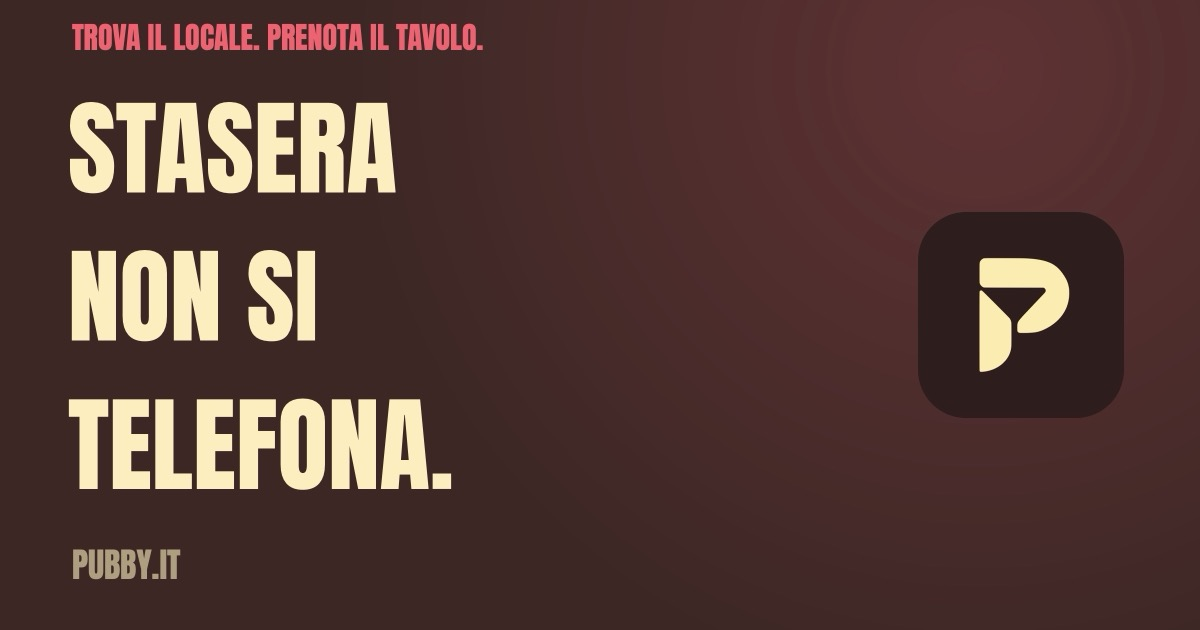
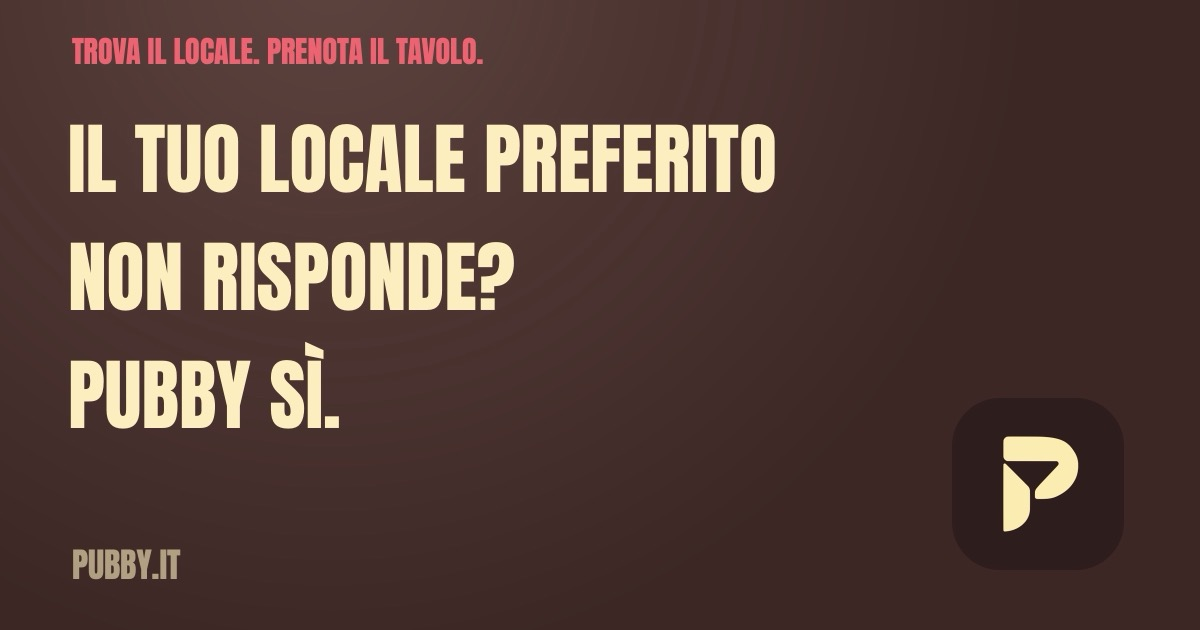
Nuovo hero, testi riscritti, figure allineate alle didascalie
- hero: slogan "Il tuo locale preferito non risponde? Pubby sì.",
  via il bagliore rosso, sfondo sui soli marrone e crema
- immagine e didascalia condividono lo stesso riquadro e nelle sezioni
  a due colonne la schermata si appoggia al margine esterno
- testi rivisti su tutto il sito: periodi completi al posto delle frasi
  spezzate, meno gergo, concordanze sistemate
- immagine Open Graph rifatta con il nuovo slogan

diff --git a/locali.html b/locali.html
@@ -72,7 +72,7 @@
     <div class="wrap hero__inner">
       <p class="eyebrow">Per i locali e i ristoranti</p>
       <h1 class="d1">Le prenotazioni arrivano da sole.</h1>
-      <p class="lead">Tu apri l'app e vedi quanta gente aspetti stasera. Nessuno chiama durante il servizio, nessun DM da recuperare a fine turno.</p>
+      <p class="lead">Apri l'app e vedi quante persone aspetti stasera. Nessuno ti chiama durante il servizio e non ci sono messaggi da recuperare a fine turno.</p>
 
       <div class="stores">
         <a class="btn btn--red" href="#contatti">Porta il tuo locale su Pubby</a>
@@ -85,14 +85,14 @@
   <section class="section section--deep">
     <div class="wrap">
       <div class="head rv">
-        <p class="eyebrow">Oggi</p>
+        <p class="eyebrow">Il problema</p>
         <h2 class="d2">Le prenotazioni le prendi<br>nei momenti sbagliati.</h2>
       </div>
 
       <div class="beats rv">
-        <div class="beat"><p>Il telefono squilla mentre esci due piatti.</p></div>
-        <div class="beat"><p>I messaggi li leggi a mezzanotte, quando il tavolo è <span class="acc">già andato altrove</span>.</p></div>
-        <div class="beat"><p>E l'agenda resta un foglio con i nomi cancellati sopra.</p></div>
+        <div class="beat"><p>Il telefono squilla proprio mentre stai servendo ai tavoli.</p></div>
+        <div class="beat"><p>Leggi i messaggi a mezzanotte, quando quel tavolo è <span class="acc">ormai andato altrove</span>.</p></div>
+        <div class="beat"><p>E l'agenda resta un foglio pieno di nomi cancellati.</p></div>
       </div>
     </div>
   </section>
@@ -104,8 +104,8 @@
         <div class="rv">
           <p class="eyebrow">Il pezzo forte</p>
           <h2 class="d2" style="margin-block:14px 18px">Un link nella bio.<br>Basta quello.</h2>
-          <p class="lead">Ogni locale su Pubby ha un indirizzo pubblico tutto suo. Chi lo apre prenota un tavolo <strong>senza scaricare l'app</strong>: mettilo nella bio di Instagram, in fondo al menù digitale, nella risposta automatica ai messaggi.</p>
-          <p class="lead" style="margin-top:18px">È il modo più corto che esiste per trasformare chi ti segue in coperti.</p>
+          <p class="lead">Ogni locale su Pubby ha un proprio indirizzo pubblico. Chi lo apre può prenotare un tavolo <strong>senza scaricare l'app</strong>: mettilo nella bio di Instagram, in fondo al menù digitale o nella risposta automatica ai messaggi.</p>
+          <p class="lead" style="margin-top:18px">È la strada più breve per trasformare chi ti segue in coperti.</p>
         </div>
 
         <figure class="figure rv">
@@ -126,14 +126,14 @@
       <div class="grid grid--2">
         <div class="rv">
           <p class="eyebrow">La giornata</p>
-          <h2 class="d2" style="margin-block:14px 18px">Quanta gente aspetti stasera.</h2>
-          <p class="lead">La home risponde a una domanda sola. I turni del giorno, i posti già presi su quelli disponibili, e toccando il turno i nomi di chi arriva.</p>
-          <p class="lead" style="margin-top:18px">Per sabato prossimo o per il ponte c'è il calendario: scegli il giorno e vedi come sei messo.</p>
+          <h2 class="d2" style="margin-block:14px 18px">Quante persone aspetti stasera.</h2>
+          <p class="lead">La home risponde a una domanda sola. Mostra i turni del giorno con i posti già prenotati sul totale disponibile e, toccando il turno, i nomi di chi arriva.</p>
+          <p class="lead" style="margin-top:18px">Per sabato prossimo o per il ponte c'è il calendario: scegli il giorno e vedi subito la situazione.</p>
 
           <div class="cards">
             <div class="card">
-              <h3>Gli orari fanno i turni</h3>
-              <p>Imposti gli orari di apertura giorno per giorno e le fasce prenotabili nascono da lì. Un giorno vuoto è un giorno di chiusura.</p>
+              <h3>Gli orari generano i turni</h3>
+              <p>Imposti gli orari di apertura giorno per giorno e da lì nascono le fasce prenotabili. Un giorno lasciato vuoto è un giorno di chiusura.</p>
             </div>
           </div>
         </div>
@@ -164,9 +164,9 @@
       <div class="grid grid--2">
         <div class="rv">
           <p class="eyebrow">Le serate</p>
-          <h2 class="d2" style="margin-block:14px 18px">Sai quanti vengono prima che arrivino.</h2>
-          <p class="lead">Pubblichi la serata e la vedono le persone della zona. Accanto a ogni evento c'è il numero di iscritti: è la stima più onesta che hai per decidere personale, scorte e allestimento.</p>
-          <p class="lead" style="margin-top:18px">Live, dj set, partita, brunch della domenica: le serate ricorrenti si ripubblicano da sole.</p>
+          <h2 class="d2" style="margin-block:14px 18px">Sai quanti sono prima che arrivino.</h2>
+          <p class="lead">Pubblichi la serata e la vedono le persone della zona. Accanto a ogni evento trovi il numero di iscritti: è la stima più attendibile per decidere personale, scorte e allestimento.</p>
+          <p class="lead" style="margin-top:18px">Concerti, dj set, partite, brunch della domenica: le serate che si ripetono vengono ripubblicate in automatico.</p>
         </div>
 
         <figure class="figure rv">
@@ -188,8 +188,8 @@
         <div class="rv">
           <p class="eyebrow">Il team</p>
           <h2 class="d2" style="margin-block:14px 18px">In sala sanno chi arriva.</h2>
-          <p class="lead">Inviti chi lavora con te scrivendo la sua email: gli arriva l'accesso sul suo account e inizia a ricevere le prenotazioni del locale.</p>
-          <p class="lead" style="margin-top:18px">Nessuna password che passa di mano. Se qualcuno cambia mansione o se ne va, lo togli senza toccare gli accessi degli altri.</p>
+          <p class="lead">Inviti chi lavora con te inserendo la sua email: riceve l'accesso sul proprio account e inizia a vedere le prenotazioni del locale.</p>
+          <p class="lead" style="margin-top:18px">Nessuna password da passare di mano. Se qualcuno cambia mansione o lascia il locale, lo rimuovi senza toccare gli accessi degli altri.</p>
         </div>
 
         <figure class="figure rv to-left">
@@ -209,24 +209,24 @@
     <div class="wrap">
       <div class="head rv">
         <p class="eyebrow">Come si parte</p>
-        <h2 class="d2">Tre passaggi, e sei dentro.</h2>
+        <h2 class="d2">Tre passaggi e sei dentro.</h2>
       </div>
 
       <div class="steps rv">
         <div class="step">
           <div class="step__n">01</div>
           <h3>Ci scrivi</h3>
-          <p>Una mail o un messaggio. Ci diciamo che tipo di locale sei e cosa ti serve davvero.</p>
+          <p>Una mail o un messaggio: ci racconti che tipo di locale hai e di che cosa hai bisogno.</p>
         </div>
         <div class="step">
           <div class="step__n">02</div>
           <h3>Prepariamo la scheda</h3>
-          <p>Foto, descrizione, categoria e orari di apertura. Da quelli nascono i turni prenotabili.</p>
+          <p>Foto, descrizione, categoria e orari di apertura: da questi nascono i turni prenotabili.</p>
         </div>
         <div class="step">
           <div class="step__n">03</div>
           <h3>Ricevi l'invito</h3>
-          <p>Ti arriva una mail, imposti la password ed entri. Da quel momento le prenotazioni sono tue.</p>
+          <p>Ti arriva una mail, imposti la password ed entri. Da quel momento le prenotazioni arrivano a te.</p>
         </div>
       </div>
     </div>
@@ -238,7 +238,7 @@
       <div class="head rv">
         <p class="eyebrow">Parliamone</p>
         <h2 class="d2">Dicci che locale hai.</h2>
-        <p class="lead" style="margin-top:18px">Ti rispondiamo noi, non un modulo. Se preferisci, scrivici direttamente su Instagram.</p>
+        <p class="lead" style="margin-top:18px">Ti risponde una persona, non un modulo. Se preferisci, scrivici direttamente su Instagram.</p>
       </div>
 
       <!-- Niente form: non c'è un backend. I contatti sono link diretti, così
@@ -266,7 +266,7 @@
       <div>
         <p class="eyebrow">Dall'altra parte</p>
         <h2 class="d3" style="margin-block:12px 12px">Qualcuno stasera<br>sta cercando te.</h2>
-        <p class="lead">Guarda com'è Pubby per chi esce la sera.</p>
+        <p class="lead">Guarda com'è fatto Pubby per chi esce la sera.</p>
       </div>
       <a class="btn btn--dark" href="index.html">Vai alla pagina per gli utenti →</a>
     </div>

diff --git a/index.html b/index.html
@@ -18,7 +18,7 @@
 <meta property="og:image" content="https://www.pubby.it/assets/og/pubby-og.jpg">
 <meta property="og:image:width" content="1200">
 <meta property="og:image:height" content="630">
-<meta property="og:image:alt" content="Pubby — il posto per stasera">
+<meta property="og:image:alt" content="Il tuo locale preferito non risponde? Pubby sì.">
 <meta name="twitter:card" content="summary_large_image">
 <meta name="twitter:title" content="Pubby — trova il locale e prenota il tavolo, stasera">
 <meta name="twitter:description" content="I locali e le serate intorno a te a Forlì-Cesena e in Riviera. Prenoti dall'app in un attimo.">
@@ -92,8 +92,8 @@
     <div class="hero__ghost" aria-hidden="true">notte</div>
     <div class="wrap hero__inner">
       <p class="eyebrow">Forlì-Cesena · Riviera</p>
-      <h1 class="d1">Stasera<br>non si<br>telefona.</h1>
-      <p class="lead">Guardi chi è aperto, scegli la serata che ti va, prenoti il tavolo. Pubby si occupa della parte noiosa.</p>
+      <h1 class="d1 d--acc">Il tuo locale<br>preferito<br>non risponde?<br>Pubby sì.</h1>
+      <p class="lead">Guardi quali locali sono aperti, scegli la serata che preferisci e prenoti il tavolo dall'app. Della parte noiosa si occupa Pubby.</p>
 
       <div class="stores" id="scarica">
         <a class="badge badge--apple" href="https://apps.apple.com/it/app/pubby/id6772457653">
@@ -104,7 +104,7 @@
         </a>
       </div>
 
-      <p class="hero__note">Gratis, per iPhone e Android.</p>
+      <p class="hero__note">Gratuita, per iPhone e Android.</p>
     </div>
   </section>
 
@@ -112,14 +112,14 @@
   <section class="section section--deep">
     <div class="wrap">
       <div class="head rv">
-        <p class="eyebrow">Il punto</p>
+        <p class="eyebrow">Il problema</p>
         <h2 class="d2">La parte peggiore<br>della serata?<br>Organizzarla.</h2>
       </div>
 
       <div class="beats rv">
-        <div class="beat"><p>Chiami il locale alle otto di venerdì. In sala hanno altro da fare.</p></div>
-        <div class="beat"><p>Scrivi in DM. Ti rispondono <span class="acc">lunedì</span>.</p></div>
-        <div class="beat"><p>Alla fine decidete mezz'ora prima di uscire, e finite dove capita.</p></div>
+        <div class="beat"><p>Chiami il locale alle otto di venerdì, ma in sala hanno altro da fare.</p></div>
+        <div class="beat"><p>Scrivi un messaggio su Instagram e ti rispondono <span class="acc">lunedì</span>.</p></div>
+        <div class="beat"><p>Così decidete mezz'ora prima di uscire e finite dove capita.</p></div>
       </div>
     </div>
   </section>
@@ -130,14 +130,14 @@
       <div class="head rv">
         <p class="eyebrow">Come funziona</p>
         <h2 class="d2">Tre schermate<br>e sei a posto.</h2>
-        <p class="lead" style="margin-top:18px">Apri l'app e hai davanti i locali della zona con le serate di oggi e dei prossimi giorni. Scegli, prenoti, ti presenti.</p>
+        <p class="lead" style="margin-top:18px">Apri l'app e trovi i locali della zona con le serate di oggi e dei prossimi giorni. Scegli, prenoti e ti presenti.</p>
       </div>
 
       <div class="steps rv">
         <div class="step">
           <div class="step__n">01</div>
           <h3>Cerca</h3>
-          <p>Locali, organizzatori ed eventi, filtrati per il tipo di serata che hai in testa.</p>
+          <p>Locali, organizzatori ed eventi, filtrati per il tipo di serata che stai cercando.</p>
           <figure class="figure">
             <picture>
               <source srcset="assets/screenshots/utente-ricerca.avif" type="image/avif">
@@ -150,7 +150,7 @@
         <div class="step">
           <div class="step__n">02</div>
           <h3>Guarda il posto</h3>
-          <p>Foto, orari, che tipo di locale è e quali serate ha in programma.</p>
+          <p>Foto, orari, categoria del locale e serate in programma.</p>
           <figure class="figure">
             <picture>
               <source srcset="assets/screenshots/utente-locale.avif" type="image/avif">
@@ -163,7 +163,7 @@
         <div class="step">
           <div class="step__n">03</div>
           <h3>Prenota</h3>
-          <p>Giorno, turno, quante persone. Il turno ti dice subito se c'è posto.</p>
+          <p>Scegli il giorno, il turno e quante persone siete: vedi subito se c'è posto.</p>
           <figure class="figure">
             <picture>
               <source srcset="assets/screenshots/utente-prenota.avif" type="image/avif">
@@ -183,7 +183,7 @@
         <div class="rv">
           <p class="eyebrow">Cosa trovi</p>
           <h2 class="d2" style="margin-block:14px 18px">Non solo cena.</h2>
-          <p class="lead">Pubby raccoglie anche le serate: il live del venerdì, la partita, l'aperitivo lungo, il brunch della domenica. Se un locale la pubblica, tu la vedi.</p>
+          <p class="lead">Su Pubby non ci sono solo i tavoli, ci sono anche le serate: il concerto del venerdì, la partita, l'aperitivo, il brunch della domenica. Se un locale pubblica un evento, tu lo vedi.</p>
 
           <ul class="chips">
             <li class="chip chip--on">Aperitivo</li>
@@ -191,7 +191,7 @@
             <li class="chip">Cocktail</li>
             <li class="chip">Evento Sportivo</li>
             <li class="chip">Brunch</li>
-            <li class="chip">E il resto della settimana</li>
+            <li class="chip">E altro ancora</li>
           </ul>
         </div>
 
@@ -213,15 +213,15 @@
       <div class="grid grid--2">
         <div class="rv">
           <p class="eyebrow">Il buono</p>
-          <h2 class="d2" style="margin-block:14px 18px">Prenoti,<br>e ci guadagni.</h2>
-          <p class="lead">Chi prenota con Pubby riceve un buono da 8 € da consumare dentro al locale. Non è uno sconto da ritagliare: lo spendi lì, quella sera.</p>
-          <p class="muted" style="margin-top:18px;font-size:.9375rem">I buoni sono temporanei e hanno una scadenza — li trovi nel tuo profilo dentro l'app.</p>
+          <h2 class="d2" style="margin-block:14px 18px">Prenoti<br>e ci guadagni.</h2>
+          <p class="lead">Chi prenota con Pubby riceve un buono da 8 euro da spendere nel locale. Non è un coupon da ritagliare: lo utilizzi direttamente lì, la sera stessa.</p>
+          <p class="muted" style="margin-top:18px;font-size:.9375rem">I buoni hanno una validità limitata e li trovi nel tuo profilo, dentro l'app.</p>
         </div>
 
         <div class="voucher rv">
           <div class="voucher__amount">8 €</div>
           <p>da spendere nel locale, ogni volta che prenoti con Pubby.</p>
-          <small>Buono temporaneo · valido fino a scadenza</small>
+          <small>Buono a validità limitata</small>
         </div>
       </div>
     </div>
@@ -277,7 +277,7 @@
       <div>
         <p class="eyebrow">Hai un locale?</p>
         <h2 class="d3" style="margin-block:12px 12px">Le prenotazioni<br>ti arrivano da sole.</h2>
-        <p class="lead">Un link nella bio, e chi ti segue prenota senza scaricare niente.</p>
+        <p class="lead">Un link nella bio e chi ti segue prenota senza scaricare nulla.</p>
       </div>
       <a class="btn btn--dark" href="locali.html">Scopri Pubby per i locali →</a>
     </div>

diff --git a/assets/css/site.css b/assets/css/site.css
@@ -239,12 +239,12 @@ ul { list-style: none; }
 .menu .btn { margin-top: 20px; width: 100%; }
 
 /* ---------- hero ---------- */
-/* il bagliore sta su body::before: dentro all'hero verrebbe tagliato
-   dall'overflow e lascerebbe un bordo netto sotto all'header */
+/* niente bagliore colorato dietro all'hero: solo i due colori principali,
+   con un alone di marrone appena piu' chiaro per dare profondita' */
 body::before {
   content: '';
-  position: absolute; top: 0; left: -20%; right: -20%; height: 760px;
-  background: radial-gradient(52% 58% at 34% 26%, rgba(255, 59, 92, 0.24), transparent 72%);
+  position: absolute; top: 0; left: -20%; right: -20%; height: 720px;
+  background: radial-gradient(58% 62% at 30% 20%, rgba(90, 58, 54, 0.55), transparent 72%);
   pointer-events: none; z-index: 0;
 }
 .hero { position: relative; overflow: hidden; padding-block: clamp(40px, 8vw, 88px) var(--pad-y); }
@@ -287,11 +287,10 @@ body::before {
 .section--light .step__n { color: var(--red-deep); }
 .step h3 { font-family: var(--display); text-transform: uppercase; font-size: 1.5rem; font-weight: 400; line-height: 1.05; margin-block: 12px 10px; }
 .step p { color: var(--cream-soft); }
-.step .figure { margin-top: 22px; }
+.step .figure { margin-top: 22px; max-width: 300px; margin-inline: 0; }
 .step .shot {
   /* dentro ai passi mostro solo la parte alta della schermata: la sezione
      resta corta su telefono e il dettaglio si legge meglio */
-  max-width: 300px; margin-inline: 0;
   aspect-ratio: 4 / 5; object-fit: cover; object-position: top center;
 }
 .section--light .step p { color: rgba(48, 28, 27, 0.75); }
@@ -309,15 +308,23 @@ body::before {
 
 /* screenshot */
 .shot {
-  /* le sorgenti sono larghe 640px: tenendole a 320 CSS px restano nitide su schermi 2x */
-  width: 100%; max-width: 320px; height: auto; margin-inline: auto;
+  /* le sorgenti sono larghe 640px: il riquadro le tiene a 320 CSS px,
+     cosi' restano nitide su schermi 2x */
+  width: 100%; height: auto;
   border-radius: var(--radius-lg);
   border: 1px solid rgba(255, 236, 171, 0.16);
   box-shadow: 0 34px 70px -28px rgba(0, 0, 0, 0.75);
   background: #0c0908;
 }
 .shot--sm { max-width: 260px; }
-.figure { margin: 0; }
+.figure { margin: 0; max-width: 320px; margin-inline: auto; }
+.shots .figure { max-width: none; }
+/* nelle sezioni a due colonne la schermata si appoggia al margine esterno,
+   in asse con il blocco di testo dall'altra parte */
+@media (min-width: 860px) {
+  .grid--2 > .figure { margin-inline: auto 0; }
+  .grid--2 > .figure.to-left { margin-inline: 0 auto; }
+}
 .figure figcaption { margin-top: 14px; font-size: 0.8125rem; color: var(--cream-soft); }
 .section--light .figure figcaption { color: rgba(48, 28, 27, 0.65); }
 .shots { display: grid; gap: 20px; align-items: start; }
